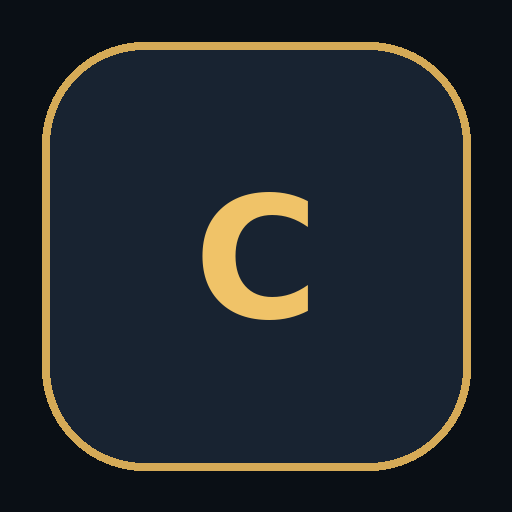
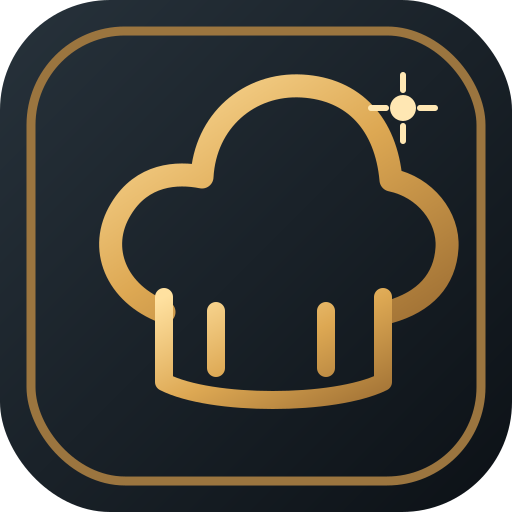
1

diff --git a/hub/src/companyCookEntry.js b/hub/src/companyCookEntry.js
@@ -171,6 +171,18 @@ styles.textContent = `
 
 `;
 styles.textContent += `
+
+  /* Gold chef-hat identity · no company branding */
+  .cc-header-icon{width:39px;height:39px;display:grid;place-items:center;border-radius:12px;
+    border:1px solid #a98249;background:linear-gradient(145deg,#3e3020,#171b20 82%);
+    box-shadow:inset 0 1px #f0cb8750,0 3px 12px #0009}
+  .cc-title-lockup{display:flex;flex-direction:column;min-width:0;gap:3px}
+  .cc-title-lockup>b{font-size:18px;line-height:1.1;color:#f7f1e5}
+  .cc-title-lockup>small{font-size:10px;line-height:1.2;color:#c2a77e;
+    font-weight:700;letter-spacing:.035em}
+  @media(max-width:600px){.cc-header-icon{width:33px;height:33px}
+    .cc-title-lockup>b{font-size:15px}.cc-title-lockup>small{font-size:9px}}
+
   /* COMPANY COOK · Order desk: structured ticket layout, independently scrollable. */
   .cc-order-dialog{box-sizing:border-box;width:min(1030px,calc(100vw - 30px));max-width:1030px;
     max-height:min(90dvh,820px);padding:0;overflow:hidden;border:1px solid #45565d;
@@ -442,8 +454,13 @@ function createAppShell(){
   const layout = document.createElement('main');layout.className = 'cc-layout';
   const header = document.createElement('header');header.className = 'cc-header';
   const identity = document.createElement('div');identity.className='cc-header-title';
-  const logo=document.createElement('span');logo.className='cc-header-icon';logo.innerHTML='<svg width="23" height="23" viewBox="0 0 24 24" fill="none" stroke="currentColor" stroke-width="2" stroke-linejoin="round"><path d="M6 13a4 4 0 0 1-1-7.87 5 5 0 0 1 9.5-1.1A4 4 0 0 1 19 11v9H5v-7"/><path d="M8 20v-4m8 4v-4"/></svg>';logo.setAttribute('aria-hidden','true');
-  const title=document.createElement('b');title.textContent='요리계산기';identity.append(logo,title);
+  const logo=document.createElement('span');logo.className='cc-header-icon';
+  logo.innerHTML='<svg viewBox="0 0 48 48" width="26" height="26" fill="none" aria-hidden="true"><path d="M14 30.5c-4.2-1.5-6.4-5.8-4.7-9.8a8 8 0 0 1 7.8-4.9c.7-5.9 5.1-9.6 11-8.7a10 10 0 0 1 8.2 9.6c5.4 1.1 8 7.1 4.2 11.3-1 2.2-2.7 3.8-5.1 4.5" stroke="#F7D18A" stroke-width="3" stroke-linecap="round" stroke-linejoin="round"/><path d="M14 28v10.5c4.8 2.8 15.3 2.8 20 0V28M19 35v-6m10 6v-6" stroke="#F7D18A" stroke-width="2.4" stroke-linecap="round" stroke-linejoin="round"/><circle cx="38" cy="8" r="2.3" fill="#FFE4AC"/></svg>';
+  logo.setAttribute('aria-hidden','true');
+  const titleBox=document.createElement('span');titleBox.className='cc-title-lockup';
+  const title=document.createElement('b');title.textContent='요리계산기';
+  const maker=document.createElement('small');maker.textContent='crafted by 영포티';
+  titleBox.append(title,maker);identity.append(logo,titleBox);
   const nav=document.createElement('nav');nav.className='cc-nav';nav.setAttribute('aria-label','요리계산기 메뉴');
   navButtons=new Map();
   const addNav=(key,text,handler)=>{
@@ -1247,6 +1264,115 @@ function renderStudioEditor(content,editing){
   content.append(form);
 }
 
+// COMPANY-only display/interaction polish. Does not modify HUB COOK's renderer.
+let companyPolishCleanup = null;
+function mountCompanyWorkbenchPolish(doc, iframe){
+  companyPolishCleanup?.();companyPolishCleanup=null;
+  if(frame!==iframe || !iframe.isConnected)return;
+  const win=iframe.contentWindow;
+  if(!win)return;
+  const search=doc.getElementById('search');
+  const results=doc.getElementById('results');
+  const searchPanel=doc.querySelector('.search-panel');
+  const ordersRoot=doc.getElementById('orders');
+  const ordersPanel=doc.querySelector('.orders-panel');
+  const purchases=doc.getElementById('purchases');
+  const cleanups=[];
+  function on(target,type,callback,options){
+    if(!target)return;
+    target.addEventListener(type,callback,options);
+    cleanups.push(()=>target.removeEventListener(type,callback,options));
+  }
+  // Keep the real search behaviour, but allow one-click/keyboard dismissal.
+  if(search&&results&&searchPanel){
+    const close=doc.createElement('button');close.type='button';
+    close.className='cc-search-dismiss';close.textContent='닫기';
+    close.setAttribute('aria-label','요리 검색 결과 닫기');
+    const dismiss=()=>{
+      if(!search.value)return;
+      search.value='';search.dispatchEvent(new win.Event('input',{bubbles:true}));
+    };
+    const refreshClose=()=>{close.hidden=!search.value.trim();};
+    searchPanel.append(close);cleanups.push(()=>close.remove());
+    on(search,'input',refreshClose);on(close,'click',dismiss);
+    on(search,'keydown',event=>{if(event.key==='Escape'){dismiss();search.blur();}});
+    on(results,'click',event=>{
+      if(event.target.closest('button.accent,button.favorite-toggle')){
+        // Native add/favourite listeners complete before clearing the results.
+        win.setTimeout(dismiss,0);
+      }
+    });
+    on(doc,'pointerdown',event=>{
+      if(search.value && !searchPanel.contains(event.target))dismiss();
+    });
+    refreshClose();
+  }
+  // Inform, don't restrict, when there are more than two distinct work items.
+  if(ordersRoot&&ordersPanel){
+    const toast=doc.createElement('div');toast.className='cc-work-hint';
+    toast.setAttribute('role','status');toast.setAttribute('aria-live','polite');toast.hidden=true;
+    ordersPanel.append(toast);cleanups.push(()=>toast.remove());
+    let count=ordersRoot.querySelectorAll('.order-row').length;
+    let timer=null,armed=false,armTimer=null;
+    // Initial autosaved work is not a new user action: only notify on clicks.
+    on(doc,'click',event=>{
+      if(event.target.closest('#results button.accent,.favorites-panel button[aria-label*="작업 목록에 추가"]')){
+        armed=true;
+        if(armTimer!==null)win.clearTimeout(armTimer);
+        armTimer=win.setTimeout(()=>{armed=false;},400);
+      }
+    },true);
+    const watch=new win.MutationObserver(()=>{
+      const next=ordersRoot.querySelectorAll('.order-row').length;
+      if(armed && next>count && next>2){
+        toast.textContent='작업목록은 2가지 정도로 운영하는 것을 추천합니다.';
+        toast.hidden=false;
+        if(timer!==null)win.clearTimeout(timer);
+        timer=win.setTimeout(()=>{toast.hidden=true;},4700);
+      }
+      count=next;
+    });
+    watch.observe(ordersRoot,{childList:true,subtree:true});
+    cleanups.push(()=>{watch.disconnect();if(timer!==null)win.clearTimeout(timer);
+      if(armTimer!==null)win.clearTimeout(armTimer);});
+  }
+  // The game's stall is the fixed buying choice when offered; otherwise use mart.
+  // Keep the existing chooser for unknown sellers instead of guessing a price.
+  if(purchases){
+    let syncing=false;
+    const reconcile=()=>{
+      if(syncing || frame!==iframe || !iframe.isConnected)return;
+      const selects=[...purchases.querySelectorAll('select.choice-select')];
+      for(const select of selects){
+        const options=[...select.options].filter(option=>option.value);
+        const preferred=options.find(o=>o.textContent.includes('노점상')) || options.find(o=>o.textContent.includes('마트'));
+        if(!preferred)continue;
+        if(select.value!==preferred.value){
+          syncing=true;
+          select.value=preferred.value;
+          select.dispatchEvent(new win.Event('change',{bubbles:true}));
+          syncing=false;
+          // The calculator redraws purchase rows during this change.
+          return;
+        }
+        const field=select.closest('.choice-label');
+        if(field){
+          const seller=preferred.textContent.includes('노점상')?'노점상':'마트';
+          const type=field.closest('.supply-card')?.querySelector('.check-type');
+          if(type){type.textContent=seller;type.title='고정 구매처 · '+seller;}
+          // No extra row: keep shopping cards equal-height for eggs and berries.
+          field.remove();
+        }
+      }
+    };
+    const observer=new win.MutationObserver(()=>reconcile());
+    observer.observe(purchases,{childList:true});
+    cleanups.push(()=>observer.disconnect());
+    reconcile();
+  }
+  companyPolishCleanup=()=>{for(const stop of cleanups)stop();};
+}
+
 function sizeCompanyFrame(iframe, doc){
   if(frame!==iframe || !iframe.isConnected)return;
   const content = doc.querySelector('.frame');
@@ -1574,6 +1700,7 @@ function installCompanyWorkspace(iframe){
     try {
       // Companion UI stays company-only and is never loaded by the HUB COOK route.
       mountCompanyMemo(doc, iframe);
+      mountCompanyWorkbenchPolish(doc, iframe);
       sizeCompanyFrame(iframe, doc);
     } catch (error) {
       console.error('요리계산기 화면 크기 조정 실패',error);

diff --git a/hub/public/company-cook/company-style.css b/hub/public/company-cook/company-style.css
@@ -115,3 +115,46 @@ html,body{min-height:0!important;background:#0d1217!important;overflow-x:hidden;
 .cc-order-open:hover{background:#4c3820}
 .cc-order-open:focus-visible{outline:2px solid #f2cb8a;outline-offset:2px}
 @media(max-width:600px){.cook-sidebar .cc-memo-panel{height:146px!important;min-height:146px!important}}
+
+
+/* COMPANY COOK · 2026-10-14 · consistent workbench detail */
+.cook-sidebar .favorites-panel>.panel-title,
+.cook-sidebar .orders-panel>.panel-title{
+  padding:3px 1px 11px;margin:0 0 10px!important;
+  border-bottom:1px solid #46515a;
+}
+.cook-sidebar .favorites-panel>.panel-title h3,
+.cook-sidebar .orders-panel>.panel-title h3{
+  color:#f7ebd7;font-size:15px!important;font-weight:850;letter-spacing:-.02em;
+}
+.cook-sidebar .favorites-panel .food-row,
+.cook-sidebar .orders-panel .order-row{min-height:47px;padding:7px 1px!important}
+.cook-sidebar .favorites-panel .food-row+.food-row,
+.cook-sidebar .orders-panel .order-row+.order-row{border-top:1px solid #2e3940}
+.cook-sidebar .food-text strong{font-size:13px!important;line-height:1.45}
+.cook-sidebar .favorites-panel .accent,
+.cook-sidebar .orders-panel .remove{min-height:30px;border-radius:7px}
+.cook-sidebar .search-panel .search-panel-actions{display:flex}
+.cook-sidebar .search-panel{isolation:isolate}
+.cook-sidebar .cc-search-dismiss{
+  position:absolute;z-index:23;right:15px;top:11px;
+  padding:3px 7px;min-height:24px;border:1px solid #725c3c;border-radius:6px;
+  background:#312617;color:#f7cc91;font-size:10px;font-weight:800;
+}
+.cook-sidebar .cc-search-dismiss[hidden]{display:none!important}
+.cook-sidebar .search-panel:has(.cc-search-dismiss:not([hidden])) input[type=search]{padding-right:49px}
+.cc-work-hint{margin:9px 0 0;padding:8px 10px;border:1px solid #806637;
+  border-radius:8px;background:#332819;color:#f5d49f;font-size:11px;line-height:1.5}
+.cc-work-hint[hidden]{display:none!important}
+/* One fixed point of purchase per item; no uneven dropdown rows. */
+.checklist-panel .choice-label.cc-source-fixed{display:flex;align-items:center;gap:7px;
+  margin-top:7px;padding:7px 0 0;border-top:1px solid #2c3840;
+  font-size:11px;color:#aabac6;font-weight:700}
+.cc-source-tag{padding:3px 8px;border:1px solid #736040;border-radius:999px;
+  background:#2d281d;color:#f0cd8d;font-size:10px;font-weight:850}
+.checklist-panel .supply-card{display:flex;flex-direction:column;justify-content:space-between;gap:0}
+@media(max-width:600px){
+  .cook-sidebar .cc-search-dismiss{top:9px;right:13px}
+  .cook-sidebar .favorites-panel>.panel-title,
+  .cook-sidebar .orders-panel>.panel-title{padding-bottom:9px}
+}
